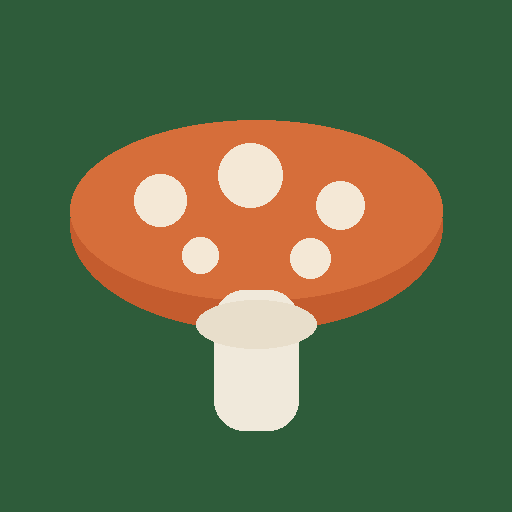
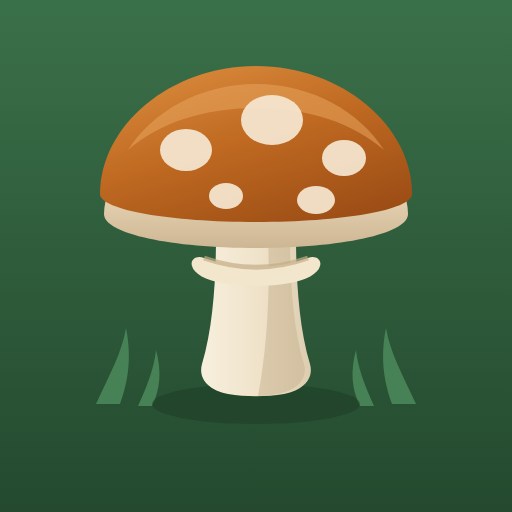
Ikona houby, nazev Houby, vytahovaci spodni panel

Changed region(s): [[0.125, 0.125, 0.875, 0.8438], [0.6875, 0.6562, 0.8125, 0.8125], [0.1875, 0.6562, 0.3125, 0.8125]]

diff --git a/index.html b/index.html
@@ -7,9 +7,11 @@
 <meta name="apple-mobile-web-app-capable" content="yes">
 <meta name="apple-mobile-web-app-status-bar-style" content="black-translucent">
 <meta name="apple-mobile-web-app-title" content="Houby">
-<title>Houby – naše mapa</title>
+<title>Houby</title>
 <link rel="manifest" href="manifest.json">
-<link rel="apple-touch-icon" href="icon-192.png">
+<link rel="apple-touch-icon" sizes="180x180" href="icon-180.png">
+<link rel="apple-touch-icon" sizes="192x192" href="icon-192.png">
+<link rel="icon" type="image/png" sizes="192x192" href="icon-192.png">
 <link rel="stylesheet" href="https://cdnjs.cloudflare.com/ajax/libs/leaflet/1.9.4/leaflet.min.css">
 <script src="https://cdnjs.cloudflare.com/ajax/libs/leaflet/1.9.4/leaflet.js"></script>
 <style>
@@ -56,8 +58,18 @@ html,body{margin:0;padding:0;height:100%;overflow:hidden;
   background:var(--card);border-top:1px solid var(--line);
   border-radius:16px 16px 0 0;box-shadow:0 -3px 18px rgba(0,0,0,.16);
   padding:10px 12px calc(var(--safe-b) + 10px);
+  transition:transform .28s cubic-bezier(.22,.61,.36,1);
+  will-change:transform;touch-action:pan-y
 }
-.grab{width:38px;height:4px;border-radius:99px;background:#d9d4ca;margin:0 auto 9px}
+.sheet.dragging{transition:none}
+/* úchyt na vytažení – malý proužek, ale velká dotyková plocha kolem něj */
+.grab{width:44px;height:5px;border-radius:99px;background:#cfc9bf;margin:0 auto 9px;position:relative;
+  touch-action:none;cursor:grab}
+.grab::after{content:'';position:absolute;left:-90px;right:-90px;top:-16px;bottom:-16px}
+.sheet.peek .grab{background:#b9b2a6}
+.sheet-head{position:relative}
+.sheet-body{transition:opacity .2s}
+.sheet.peek .sheet-body{opacity:.35}
 
 .bigbtn{
   width:100%;min-height:60px;border:0;border-radius:14px;
@@ -185,6 +197,7 @@ html,body{margin:0;padding:0;height:100%;overflow:hidden;
 <div class="banner" id="banner"><span class="close" id="bannerClose">✕</span><span id="bannerTxt"></span></div>
 
 <div class="sheet">
+ <div class="sheet-head">
   <div class="grab"></div>
 
   <button class="bigbtn" id="btnPark">🚗 &nbsp;Zaparkoval jsem tady</button>
@@ -197,7 +210,9 @@ html,body{margin:0;padding:0;height:100%;overflow:hidden;
     </div>
     <button class="x" id="btnCarClear" title="Auto vyzvednuto">🗑</button>
   </div>
+ </div>
 
+ <div class="sheet-body">
   <div class="row">
     <div class="toggle" id="tgShare">
       <div class="sw"><i></i></div>
@@ -217,6 +232,7 @@ html,body{margin:0;padding:0;height:100%;overflow:hidden;
     <div class="mini" id="btnOffline"><b>⬇</b>Offline</div>
     <a class="mini" id="btnFind" href="findmy://" target="_blank" rel="noopener"><b>📡</b>Najít</a>
   </div>
+ </div>
 </div>
 
 <div class="modal" id="nameModal">
@@ -617,6 +633,7 @@ function renderCar(){
     if (carMarker){ map.removeLayer(carMarker); carMarker = null; }
     $('btnPark').style.display = '';
     $('carNav').style.display = 'none';
+    if (typeof measureSheet === 'function'){ measureSheet(); applySheet(false); }
     return;
   }
   const ll = [c.lat, c.lng];
@@ -637,6 +654,7 @@ function renderCar(){
   $('btnPark').style.display = 'none';
   $('carNav').style.display = 'flex';
   updateCarNav();
+  if (typeof measureSheet === 'function'){ measureSheet(); applySheet(false); }
 }
 
 function updateCarNav(){
@@ -870,6 +888,95 @@ document.addEventListener('visibilitychange', async () => {
   if (document.visibilityState === 'visible' && $('tgWake').classList.contains('on') && !state.wake) setWake(true);
 });
 
+/* ============================================================
+   VYTAHOVACÍ SPODNÍ PANEL
+   Táhni prstem za proužek (nebo za volné místo panelu) nahoru
+   a dolů. Ve složeném stavu zůstane vidět jen to hlavní –
+   tlačítko auta, případně navigace k němu – a zbytek mapy je volný.
+   ============================================================ */
+const sheetEl = document.querySelector('.sheet');
+let sheetPeek = LS.get('sheetPeek', false);   // false = rozbalený
+let peekOffset = 0;
+
+function isWide(){ return window.innerWidth >= 820; }
+
+function measureSheet(){
+  const head = sheetEl.querySelector('.sheet-head');
+  const padTop = parseFloat(getComputedStyle(sheetEl).paddingTop) || 0;
+  // ve složeném stavu zůstane vidět hlava panelu + horní odsazení
+  peekOffset = Math.max(0, Math.round(sheetEl.offsetHeight - head.offsetHeight - padTop - 6));
+}
+
+function applySheet(animate){
+  if (!animate) sheetEl.classList.add('dragging');
+  const off = (sheetPeek && !isWide()) ? peekOffset : 0;
+  sheetEl.style.transform = 'translateY(' + off + 'px)';
+  sheetEl.classList.toggle('peek', off > 0);
+  if (!animate) requestAnimationFrame(()=> sheetEl.classList.remove('dragging'));
+}
+
+function setSheetPeek(v, animate){
+  sheetPeek = !!v;
+  LS.set('sheetPeek', sheetPeek);
+  measureSheet();
+  applySheet(animate !== false);
+}
+
+/* --- tažení prstem ---
+   Posluchače pohybu a puštění dáváme na window, ne na panel:
+   panel se během tažení sám posouvá a událost by nám utekla. --- */
+let dragStartY = null, dragStartOff = 0, dragLastY = 0, dragLastT = 0, dragV = 0, dragging = false;
+
+function draggableTarget(t){
+  // z tlačítek a přepínačů se netáhne, ať se nekazí jejich ovládání
+  return !t.closest('button, a, .toggle, .mini, .bigbtn, .carnav .x, input');
+}
+
+function onDragMove(e){
+  if (!dragging) return;
+  const dy = e.clientY - dragStartY;
+  const off = Math.min(peekOffset, Math.max(0, dragStartOff + dy));
+  sheetEl.style.transform = 'translateY(' + off + 'px)';
+  const now = Date.now(), dt = now - dragLastT;
+  if (dt > 0){ dragV = (e.clientY - dragLastY) / dt; dragLastY = e.clientY; dragLastT = now; }
+  if (e.cancelable && Math.abs(dy) > 6) e.preventDefault();
+}
+
+function onDragEnd(e){
+  if (!dragging) return;
+  dragging = false;
+  window.removeEventListener('pointermove', onDragMove);
+  window.removeEventListener('pointerup', onDragEnd);
+  window.removeEventListener('pointercancel', onDragEnd);
+  sheetEl.classList.remove('dragging');
+  const dy = (e && typeof e.clientY === 'number') ? e.clientY - dragStartY : 0;
+  let target;
+  if (Math.abs(dragV) > 0.4)      target = dragV > 0;            // švihnutí rozhodne směr
+  else if (Math.abs(dy) < 8)      target = !sheetPeek;           // klepnutí = přepnout
+  else                            target = (dragStartOff + dy) > peekOffset / 2;
+  setSheetPeek(target, true);
+}
+
+sheetEl.addEventListener('pointerdown', e => {
+  if (isWide()) return;
+  const onGrab = !!e.target.closest('.grab');
+  if (!onGrab && !draggableTarget(e.target)) return;
+  measureSheet();
+  if (peekOffset <= 0) return;
+  dragStartY = dragLastY = e.clientY;
+  dragLastT = Date.now();
+  dragV = 0;
+  dragStartOff = sheetPeek ? peekOffset : 0;
+  dragging = true;
+  sheetEl.classList.add('dragging');
+  window.addEventListener('pointermove', onDragMove, {passive:false});
+  window.addEventListener('pointerup', onDragEnd);
+  window.addEventListener('pointercancel', onDragEnd);
+});
+
+window.addEventListener('resize', () => { measureSheet(); applySheet(false); });
+window.addEventListener('orientationchange', () => setTimeout(()=>{ measureSheet(); applySheet(false); }, 300));
+
 /* ---------- legenda + UID ---------- */
 $('btnLegend').onclick = () => {
   const box = $('legendModal').querySelector('.mbox');
@@ -1075,6 +1182,8 @@ if ('serviceWorker' in navigator){
    ============================================================ */
 renderCar();
 renderPeopleList();
+measureSheet(); applySheet(false);
+window.addEventListener('load', () => { measureSheet(); applySheet(false); });
 if (!state.name) askName(); else $('whoTxt').textContent = state.name;
 setShare(false);                 // výchozí stav je VYP, vždy
 initFirebase();

diff --git a/sw.js b/sw.js
@@ -5,7 +5,7 @@
      uživatel reálně projde (nebo si je stáhne tlačítkem Offline)
    - Firebase: nikdy necachujeme, musí jít vždy na síť
    ============================================================ */
-const VER        = 'houby-v1';
+const VER        = 'houby-v2';
 const SHELL      = VER + '-shell';
 const TILES      = VER + '-tiles';
 const TILE_MAX   = 3000;          // strop uložených dlaždic
@@ -15,6 +15,7 @@ const SHELL_FILES = [
   './index.html',
   './config.js',
   './manifest.json',
+  './icon-180.png',
   './icon-192.png',
   './icon-512.png',
   'https://cdnjs.cloudflare.com/ajax/libs/leaflet/1.9.4/leaflet.min.css',
